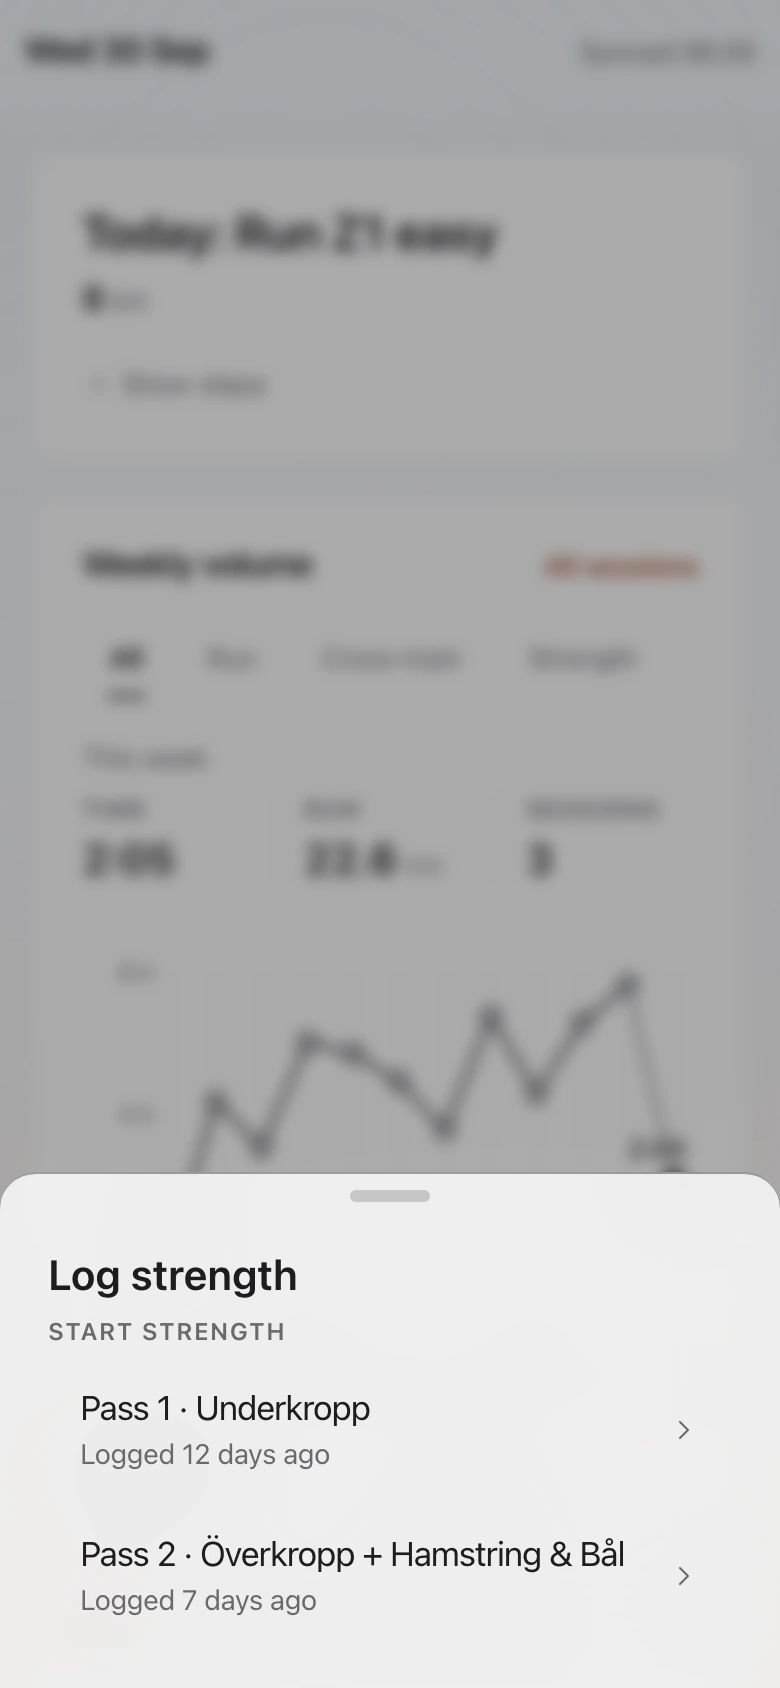
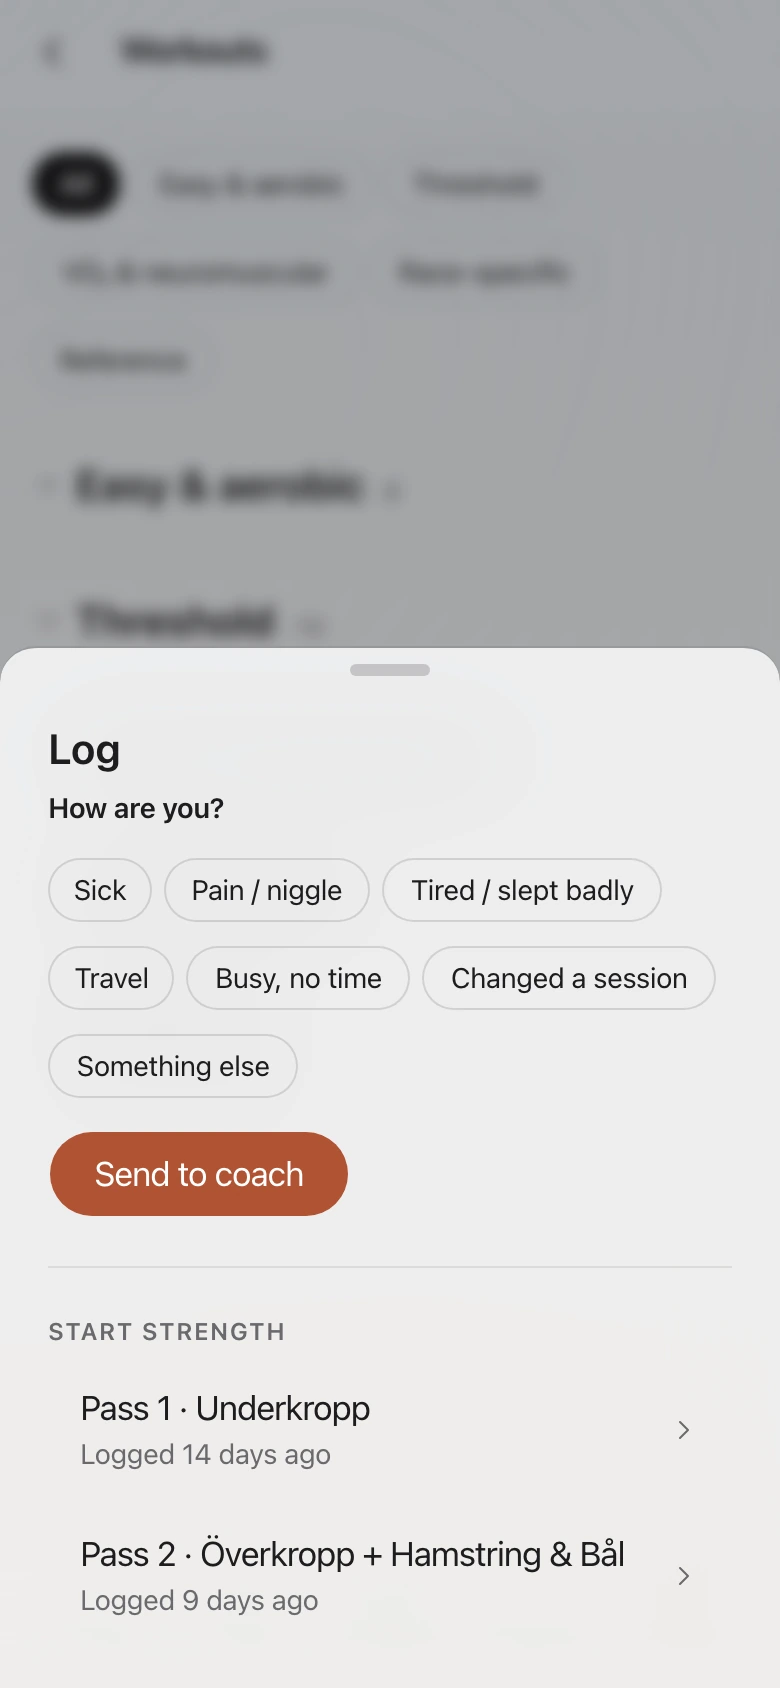
feat(data): Show the new varv Log sheet with the coach check-in

diff --git a/src/app/work/experiment/[slug]/content/varv.tsx b/src/app/work/experiment/[slug]/content/varv.tsx
@@ -612,10 +612,10 @@ export default function VarvContent() {
               src: 'log-sheet-m.webp',
               width: 780,
               height: 1688,
-              alt: 'The Log strength sheet listing two gym passes and when each was last logged',
+              alt: 'The Log sheet on a phone, with options to tell the coach how I am and the two gym passes to start',
             },
           ]}
-          caption="On my phone, logging a gym session starts from the tab bar."
+          caption="The Log sheet takes a quick note to the coach or starts a gym session."
         />
       </MiddleSection>
 
